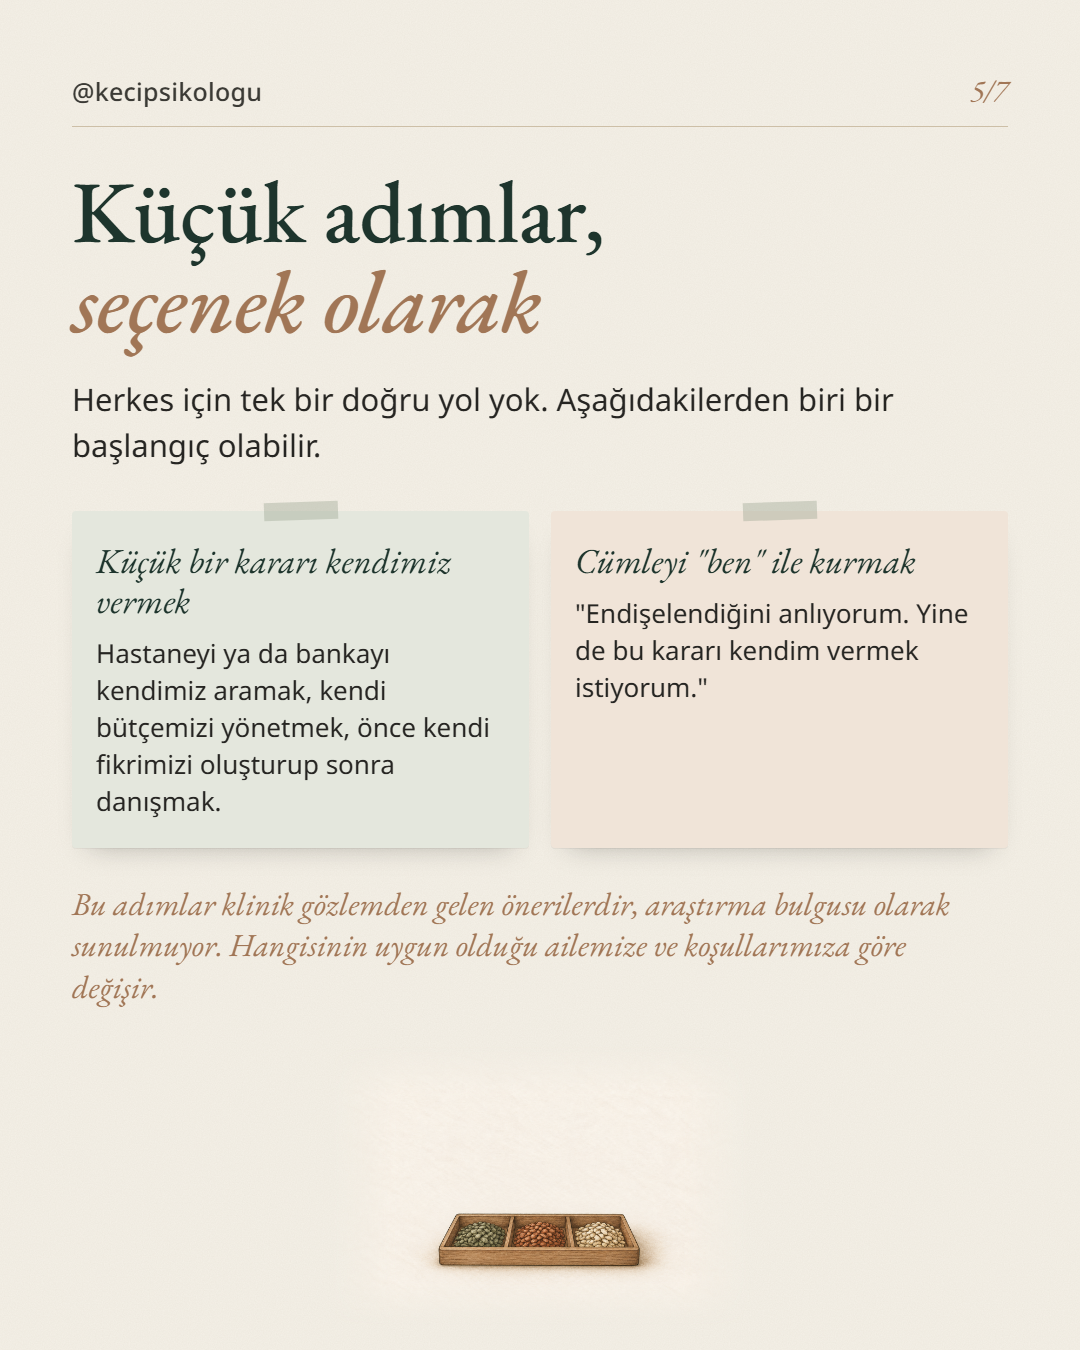
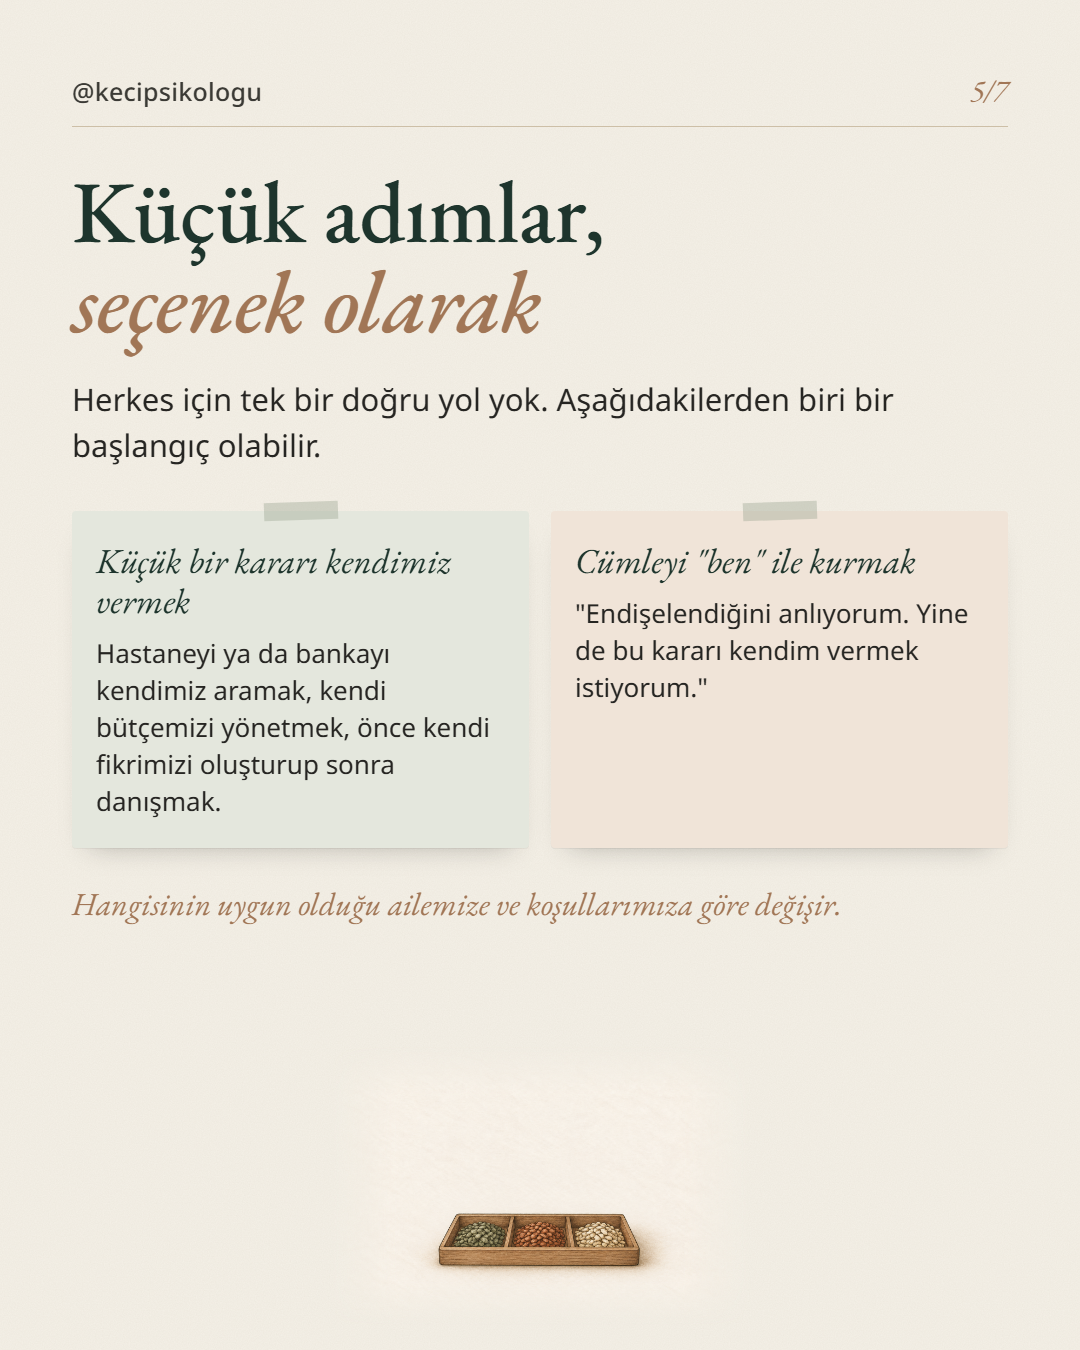
fix(posts): drop notes, crisis lines and channel notices from 18 and 20 Oct
Operator corrections 2026-10-11: no clinical-observation labels, no 112 or
emergency-help lines, no WhatsApp or channel notice; CTA small print names
the site. Slide 6 art enlarged where the text got shorter.

Claude-Session: https://claude.ai/code/session_01YRjYDNXAqdazCHQBaajULc

Changed region(s): [[0.0611, 0.6533, 0.8861, 0.7467]]

diff --git a/posts/2026-10-20-cocuk-muamelesi/caption.md b/posts/2026-10-20-cocuk-muamelesi/caption.md
@@ -1,10 +1,10 @@
 Ailemize yakın kalmayı da, kendi kararlarımızı vermeyi de isteyebiliriz.
 
-Karuselde yakınlık ile iç içe geçmenin ayrımına, araştırmaların neyi gösterdiğine ve neyi göstermediğine, denenebilecek küçük adımlara yer verdik. Bu içerik genel bilgilendirme amaçlıdır, bireysel değerlendirmenin yerini tutmaz.
+Karuselde yakınlık ile iç içe geçmenin ayrımına, araştırmaların neyi gösterdiğine ve neyi göstermediğine, denenebilecek küçük adımlara yer verdik.
 
-Sınır koymak bazı ailelerde güvenli olmayabilir. Öyleyse önce bir uzmanla konuşmak iyi bir başlangıç olabilir. Tehdit, baskı, paranızın ya da hareket özgürlüğünüzün zorla kısıtlanması aile içinde de olsa ilgi değildir. Böyle bir durumda beklemeden yardım alın. Yakın ve ciddi bir tehlike varsa 112'yi arayın.
+Sınır koymak bazı ailelerde güvenli olmayabilir. Öyleyse önce bir uzmanla konuşmak iyi bir başlangıç olabilir. Tehdit, baskı, paranızın ya da hareket özgürlüğünüzün zorla kısıtlanması aile içinde de olsa ilgi değildir.
 
-Bu konuyu bir uzmanla birlikte ele almak isterseniz, psikolojik danışmanlık hizmeti için profildeki bağlantıdan ulaşabilirsiniz. Sitedeki ön görüşme formu ve WhatsApp hattı acil yardım kanalı değildir ve sürekli izlenmez.
+Bu konuyu bir uzmanla birlikte ele almak isterseniz, psikolojik danışmanlık hizmeti için profildeki bağlantıdan ulaşabilirsiniz. Ön görüşme formu onourimpram.com adresinde.
 
 Kaynaklar:
 Journal of Marriage and the Family (1996): https://doi.org/10.2307/353507

diff --git a/posts/2026-10-18-ruminasyon/caption.md b/posts/2026-10-18-ruminasyon/caption.md
@@ -1,10 +1,10 @@
 Aynı düşünceye dönmek, bir şey yapıyormuş gibi gelebilir.
 
-Karuselde ruminasyonun ne olduğuna, deneylerde nelerin bulunduğuna ve denenebilecek somut bir adıma yer verdik. Bu içerik genel bilgilendirme amaçlıdır, bireysel değerlendirmenin yerini tutmaz.
+Karuselde ruminasyonun ne olduğuna, deneylerde nelerin bulunduğuna ve denenebilecek somut bir adıma yer verdik.
 
-Bu döngü uzun süre devam ediyor ya da günlük hayatı zorlaştırıyorsa, bir uzmanla çalışmak iyi bir adım olabilir. Ölüm ya da kendine zarar verme düşünceleri varsa bir uzmana başvurmayı geciktirmeyin. Yakın ve ciddi bir tehlike varsa 112'yi arayın.
+Bu döngü uzun süre devam ediyor ya da günlük hayatı zorlaştırıyorsa, bir uzmanla çalışmak iyi bir adım olabilir.
 
-Bu düşünce döngüsünü bir uzmanla birlikte ele almak isterseniz, psikolojik danışmanlık hizmeti için profildeki bağlantıdan ulaşabilirsiniz. Sitedeki ön görüşme formu ve WhatsApp hattı acil yardım kanalı değildir ve sürekli izlenmez.
+Bu düşünce döngüsünü bir uzmanla birlikte ele almak isterseniz, psikolojik danışmanlık hizmeti için profildeki bağlantıdan ulaşabilirsiniz. Ön görüşme formu onourimpram.com adresinde.
 
 Kaynaklar:
 Journal of Abnormal Psychology (1991): https://doi.org/10.1037/0021-843X.100.4.569
